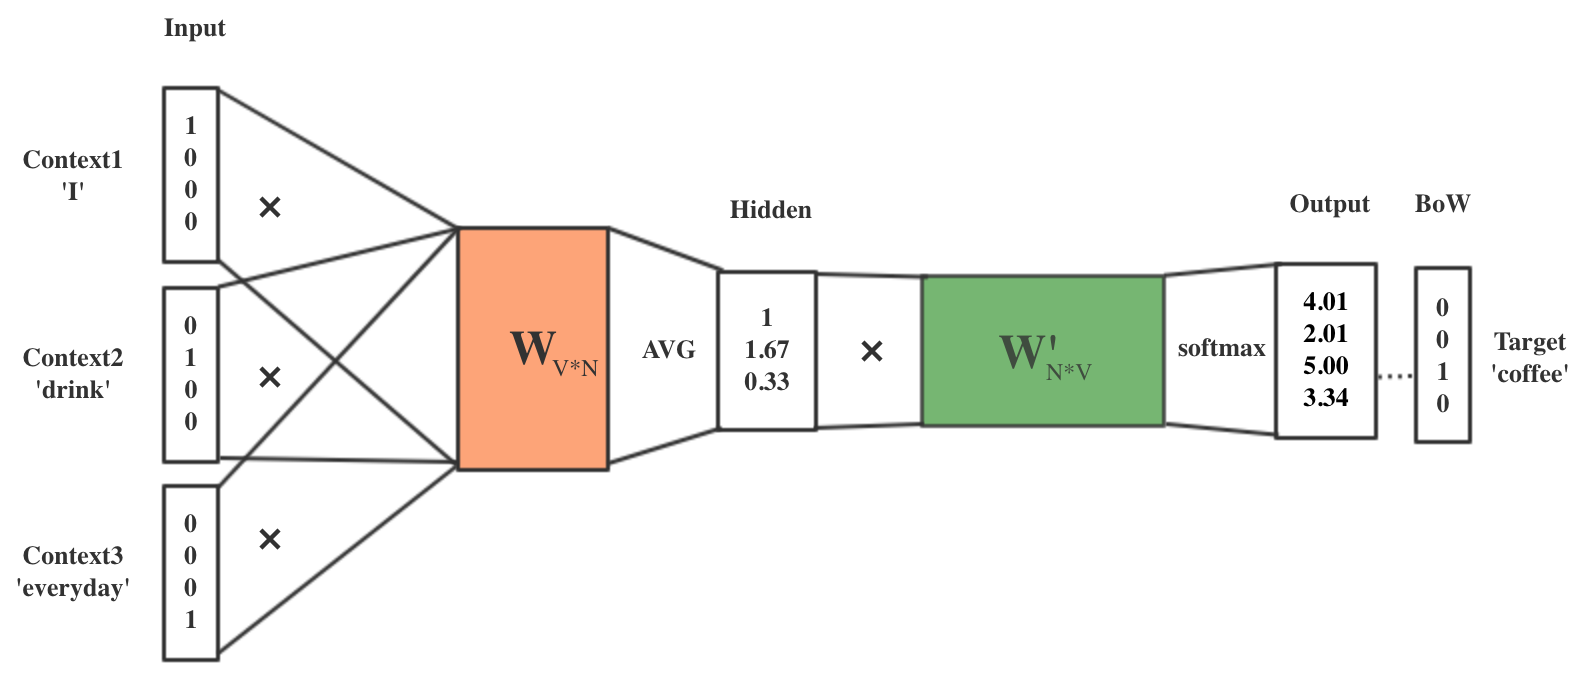
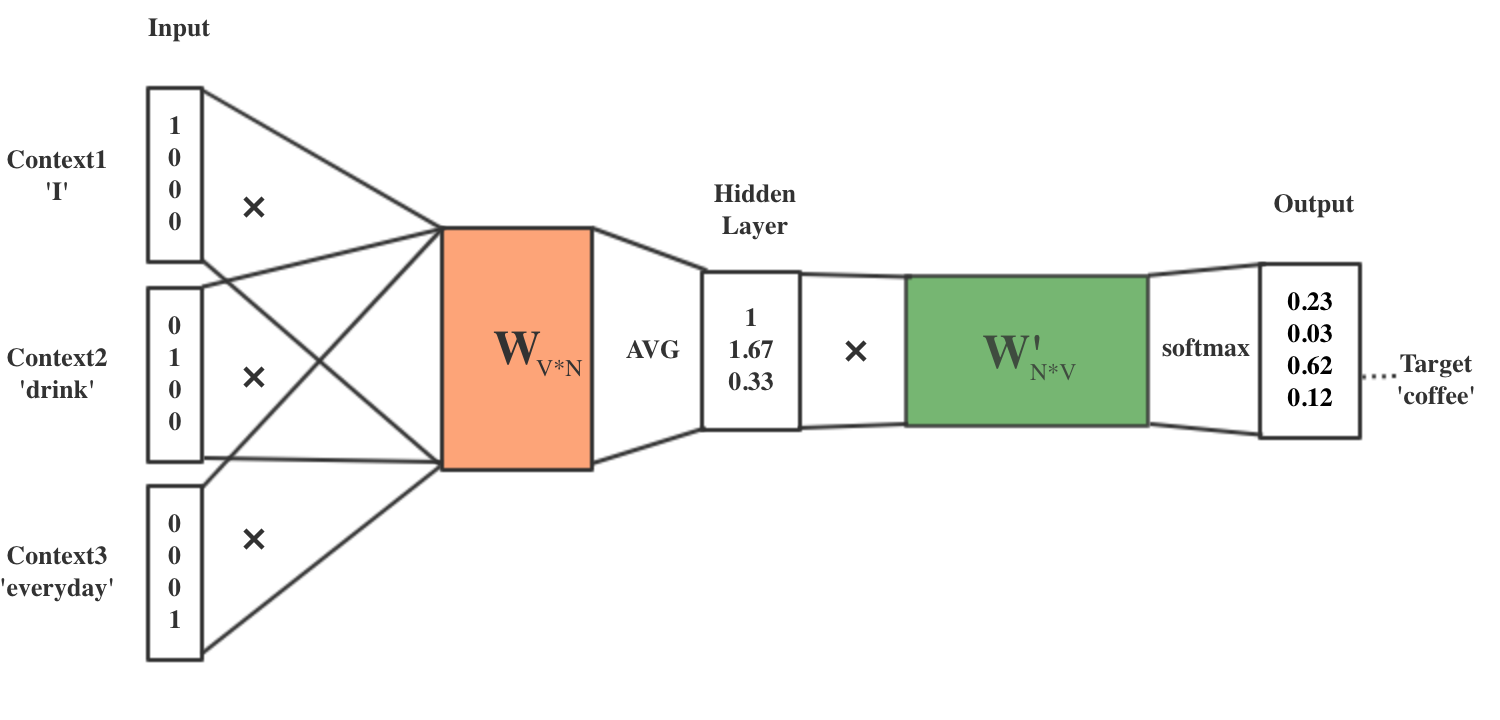
img update

Changed region(s): [[0.0, 0.0929, 1.0, 0.9912], [0.46, 0.2478, 0.552, 0.3407], [0.092, 0.031, 0.1533, 0.0619]]

diff --git a/_posts/2018-12-31-blog-post-17.md b/_posts/2018-12-31-blog-post-17.md
@@ -61,6 +61,9 @@ Context: *{I, drink, everyday}*
 
 **Figure 2. CBOW Framework with Example**
 
+<p float="left">
+	<img src="/images/CBOW2.jpg" width="700" />
+</p>
 
 
 **TBA..**
